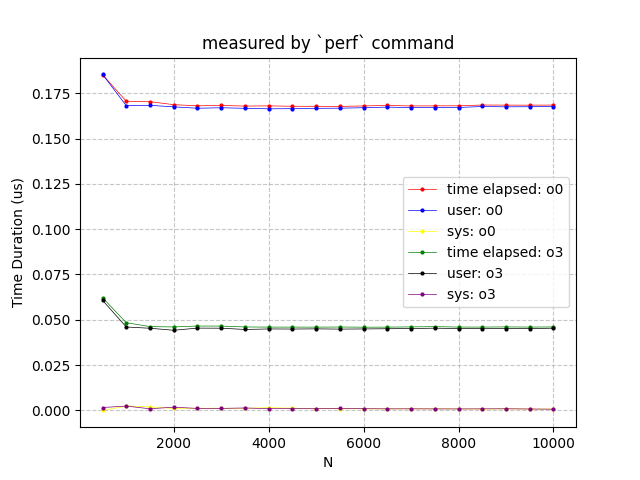
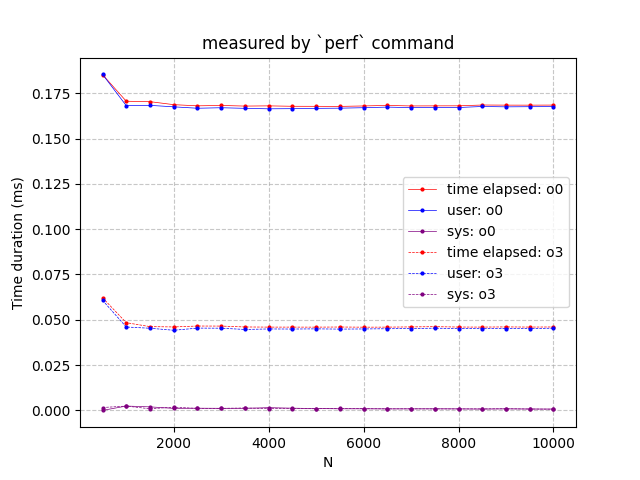
HW0 done

diff --git a/hw0_code/task_4/perf/percentage_metrics.py b/hw0_code/task_4/perf/percentage_metrics.py
@@ -1,0 +1,118 @@
+import os
+import re
+import numpy as np
+import matplotlib.pyplot as plt
+
+root_dir = 'hw0_code/task_4/perf'
+sub_dirs_O0 = ['test_1/O0', 'test_2/O0', 'test_3/O0', 'test_4/O0', 'test_5/O0']
+sub_dirs_O3 = ['test_1/O3', 'test_2/O3', 'test_3/O3', 'test_4/O3', 'test_5/O3']
+
+arg_try_times = 20
+
+metrics = ['icache_hit_percentages_o0', 'cache_ref_percentages_o0', 'dcache_hit_percentages_o0', 'branch_miss_percentages_o0', 'instructions_counts_o0', 'page_faults_counts_o0', 
+           'cpu_migrations_counts_o0', 'icache_hit_percentages_o3', 'cache_ref_percentages_o3', 'dcache_hit_percentages_o3', 'branch_miss_percentages_o3', 'instructions_counts_o3', 'page_faults_counts_o3', 
+           'cpu_migrations_counts_o3']
+
+for metric in metrics:
+    globals()[metric] = [[] for _ in range(arg_try_times)]
+
+time_pattern = re.compile(r'(\d+)m(\d+\.\d+)s')
+
+def convert_to_seconds(time_str):
+    match = time_pattern.match(time_str)
+    if match:
+        minutes = int(match.group(1))
+        seconds = float(match.group(2))
+        return minutes * 60 + seconds
+    return None
+
+for i in range(arg_try_times):
+    n = (i+1) * 500
+    for sub_dir in sub_dirs_O0:
+        with open(os.path.join(root_dir,sub_dir,f"{n}.txt"), 'r') as file:
+            content = file.read()
+            flops = 2 * n**2
+
+            icache_hit_percentages_o0[i].append(float(re.search(r'L1-icache-load-misses\s+#\s+([\d\.]+)% of all L1-icache hits', content).group(1)) if re.search(r'L1-icache-load-misses\s+#\s+([\d\.]+)% of all L1-icache hits', content) else None)
+            cache_ref_percentages_o0[i].append(float(re.search(r'cache-misses\s+#\s+([\d\.]+)\s*% of all cache refs', content).group(1)) if re.search(r'cache-misses\s+#\s+([\d\.]+)\s*% of all cache refs', content) else None)
+            dcache_hit_percentages_o0[i].append(float(re.search(r'L1-dcache-load-misses\s+#\s+([\d\.]+)% of all L1-dcache hits', content).group(1)) if re.search(r'L1-dcache-load-misses\s+#\s+([\d\.]+)% of all L1-dcache hits', content) else None)
+            branch_miss_percentages_o0[i].append(float(re.search(r'branch-misses\s+#\s+([\d\.]+)% of all branches', content).group(1)) if re.search(r'branch-misses\s+#\s+([\d\.]+)% of all branches', content) else None)
+            instructions_counts_o0[i].append(int(re.search(r'([\d,]+)\s+instructions', content).group(1).replace(',', '')) if re.search(r'([\d,]+)\s+instructions', content) else None)
+            page_faults_counts_o0[i].append(int(re.search(r'([\d,]+)\s+page-faults', content).group(1).replace(',', '')) if re.search(r'([\d,]+)\s+page-faults', content) else None)
+            cpu_migrations_counts_o0[i].append(int(re.search(r'([\d,]+)\s+cpu-migrations', content).group(1).replace(',', '')) if re.search(r'([\d,]+)\s+cpu-migrations', content) else None)
+            
+    for sub_dir in sub_dirs_O3:
+        with open(os.path.join(root_dir,sub_dir,f"{n}.txt"), 'r') as file:
+            content = file.read()
+            flops = 2 * n**2
+            
+            icache_hit_percentages_o3[i].append(float(re.search(r'L1-icache-load-misses\s+#\s+([\d\.]+)% of all L1-icache hits', content).group(1)) if re.search(r'L1-icache-load-misses\s+#\s+([\d\.]+)% of all L1-icache hits', content) else None)
+            cache_ref_percentages_o3[i].append(float(re.search(r'cache-misses\s+#\s+([\d\.]+)\s*% of all cache refs', content).group(1)) if re.search(r'cache-misses\s+#\s+([\d\.]+)\s*% of all cache refs', content) else None)
+            dcache_hit_percentages_o3[i].append(float(re.search(r'L1-dcache-load-misses\s+#\s+([\d\.]+)% of all L1-dcache hits', content).group(1)) if re.search(r'L1-dcache-load-misses\s+#\s+([\d\.]+)% of all L1-dcache hits', content) else None)
+            branch_miss_percentages_o3[i].append(float(re.search(r'branch-misses\s+#\s+([\d\.]+)% of all branches', content).group(1)) if re.search(r'branch-misses\s+#\s+([\d\.]+)% of all branches', content) else None)
+            instructions_counts_o3[i].append(int(re.search(r'([\d,]+)\s+instructions', content).group(1).replace(',', '')) if re.search(r'([\d,]+)\s+instructions', content) else None)
+            page_faults_counts_o3[i].append(int(re.search(r'([\d,]+)\s+page-faults', content).group(1).replace(',', '')) if re.search(r'([\d,]+)\s+page-faults', content) else None)
+            cpu_migrations_counts_o3[i].append(int(re.search(r'([\d,]+)\s+cpu-migrations', content).group(1).replace(',', '')) if re.search(r'([\d,]+)\s+cpu-migrations', content) else None)
+            
+
+
+
+
+
+icache_hit_percentages_o0 = np.mean(icache_hit_percentages_o0, axis=1)
+cache_ref_percentages_o0 = np.mean(cache_ref_percentages_o0, axis=1)
+dcache_hit_percentages_o0 = np.mean(dcache_hit_percentages_o0, axis=1)
+branch_miss_percentages_o0 = np.mean(branch_miss_percentages_o0, axis=1)
+
+# instructions_counts_o0 = np.mean(instructions_counts_o0, axis=1)
+# page_faults_counts_o0 = np.mean(page_faults_counts_o0, axis=1)
+# cpu_migrations_counts_o0 = np.mean(cpu_migrations_counts_o0, axis=1)
+
+
+icache_hit_percentages_o3 = np.mean(icache_hit_percentages_o3, axis=1)
+cache_ref_percentages_o3 = np.mean(cache_ref_percentages_o3, axis=1)
+dcache_hit_percentages_o3 = np.mean(dcache_hit_percentages_o3, axis=1)
+branch_miss_percentages_o3 = np.mean(branch_miss_percentages_o3, axis=1)
+
+# instructions_counts_o3 = np.mean(instructions_counts_o3, axis=1)
+# page_faults_counts_o3 = np.mean(page_faults_counts_o3, axis=1)
+# cpu_migrations_counts_o3 = np.mean(cpu_migrations_counts_o3, axis=1)
+
+
+n_values = np.arange(500, 10001, 500)
+
+plt.figure(figsize=(7, 7)) 
+# 绘制L1指令缓存未命中率
+plt.plot(n_values, icache_hit_percentages_o0, marker='o', linestyle='-', color='green', label='L1-icache miss rate (%): O0', markersize=4, linewidth=1)
+# 绘制缓存引用未命中率
+plt.plot(n_values, cache_ref_percentages_o0, marker='o', linestyle='-', color='purple', label='Cache miss rate (%): O0', markersize=4, linewidth=1)
+# 绘制L1数据缓存未命中率
+plt.plot(n_values, dcache_hit_percentages_o0, marker='o', linestyle='-', color='orange', label='L1-dcache miss rate (%): O0', markersize=4, linewidth=1)
+# 绘制分支未命中百分比
+plt.plot(n_values, branch_miss_percentages_o0, marker='o', linestyle='-', color='magenta', label='Branch miss rate (%): O0', markersize=4, linewidth=1)
+
+#plot o3 related metrics
+# 绘制L1指令缓存未命中率
+plt.plot(n_values, icache_hit_percentages_o3, marker='o', linestyle='--', color='green', label='L1-icache miss rate (%): O3', markersize=4, linewidth=1)
+# 绘制缓存引用未命中率
+plt.plot(n_values, cache_ref_percentages_o3, marker='o', linestyle='--', color='purple', label='Cache miss rate (%): O3', markersize=4, linewidth=1)
+# 绘制L1数据缓存未命中率
+plt.plot(n_values, dcache_hit_percentages_o3, marker='o', linestyle='--', color='orange', label='L1-dcache miss rate (%): O3', markersize=4, linewidth=1)
+# 绘制分支未命中百分比
+plt.plot(n_values, branch_miss_percentages_o3, marker='o', linestyle='--', color='magenta', label='Branch miss rate (%): O3', markersize=4, linewidth=1)
+
+
+# 设置坐标轴标签和标题
+plt.xlabel('N')
+plt.ylabel('percentage(%)')
+plt.title('')
+
+# 添加网格线
+plt.grid(True, linestyle='--', alpha=0.7)
+
+# 显示图例
+plt.legend()
+
+# 显示图形
+plt.savefig(os.path.join(root_dir,f"percentage_metrics.png"))
+# name = r"$\bar{x}$"

diff --git a/hw0_code/task_4/perf/analysis.py b/hw0_code/task_4/perf/analysis.py
@@ -9,13 +9,10 @@ sub_dirs_O3 = ['test_1/O3', 'test_2/O3', 'test_3/O3', 'test_4/O3', 'test_5/O3']
 
 arg_try_times = 20
 
-elapsed_matchs_o0 = [ [] for _ in range(arg_try_times)]
-user_matchs_o0 = [ [] for _ in range(arg_try_times)]
-sys_matchs_o0 = [ [] for _ in range(arg_try_times)]
+metrics = ['elapsed_matchs_o0', 'user_matchs_o0', 'sys_matchs_o0', 'elapsed_matchs_o3', 'user_matchs_o3', 'sys_matchs_o3']
 
-elapsed_matchs_o3 = [ [] for _ in range(arg_try_times)]
-user_matchs_o3 = [ [] for _ in range(arg_try_times)]
-sys_matchs_o3 = [ [] for _ in range(arg_try_times)]
+for metric in metrics:
+    globals()[metric] = [[] for _ in range(arg_try_times)]
 
 time_pattern = re.compile(r'(\d+)m(\d+\.\d+)s')
 
@@ -33,46 +30,47 @@ for i in range(arg_try_times):
         with open(os.path.join(root_dir,sub_dir,f"{n}.txt"), 'r') as file:
             content = file.read()
             flops = 2 * n**2
-            elapsed_match = re.search(r"(\d+\.\d+) seconds time elapsed", content)
-            elapsed_matchs_o0[i].append(float(elapsed_match.group(1))/flops)
-            user_match = re.search(r"(\d+\.\d+) seconds user", content)
-            user_matchs_o0[i].append(float(user_match.group(1))/flops)
-            sys_match = re.search(r"(\d+\.\d+) seconds sys", content)
-            sys_matchs_o0[i].append(float(sys_match.group(1))/flops)
-
+            elapsed_matchs_o0[i].append(float(re.search(r"(\d+\.\d+) seconds time elapsed", content).group(1))/flops)
+            user_matchs_o0[i].append(float(re.search(r"(\d+\.\d+) seconds user", content).group(1))/flops)
+            sys_matchs_o0[i].append(float(re.search(r"(\d+\.\d+) seconds sys", content).group(1))/flops)
     for sub_dir in sub_dirs_O3:
         with open(os.path.join(root_dir,sub_dir,f"{n}.txt"), 'r') as file:
             content = file.read()
             flops = 2 * n**2
-            elapsed_match = re.search(r"(\d+\.\d+) seconds time elapsed", content)
-            elapsed_matchs_o3[i].append(float(elapsed_match.group(1))/flops)
-            user_match = re.search(r"(\d+\.\d+) seconds user", content)
-            user_matchs_o3[i].append(float(user_match.group(1))/flops)
-            sys_match = re.search(r"(\d+\.\d+) seconds sys", content)
-            sys_matchs_o3[i].append(float(sys_match.group(1))/flops)
+            elapsed_matchs_o3[i].append(float(re.search(r"(\d+\.\d+) seconds time elapsed", content).group(1))/flops)
+            user_matchs_o3[i].append(float(re.search(r"(\d+\.\d+) seconds user", content).group(1))/flops)
+            sys_matchs_o3[i].append(float(re.search(r"(\d+\.\d+) seconds sys", content).group(1))/flops)
+
 
 elapsed_matchs_o0 = np.mean(elapsed_matchs_o0, axis=1)*1000000
 user_matchs_o0 = np.mean(user_matchs_o0, axis=1)*1000000
 sys_matchs_o0 = np.mean(sys_matchs_o0, axis=1)*1000000
-
 elapsed_matchs_o3 = np.mean(elapsed_matchs_o3, axis=1)*1000000
 user_matchs_o3 = np.mean(user_matchs_o3, axis=1)*1000000
 sys_matchs_o3 = np.mean(sys_matchs_o3, axis=1)*1000000
 
 
+
 n_values = np.arange(500, 10001, 500)
+
+
+
+
+
+
 
 # 使用 errorbar 绘制带有误差线的折线图
 plt.plot(n_values, elapsed_matchs_o0, marker='o', linestyle='-', color='red', label='time elapsed: o0', markersize=2, linewidth=0.5)
 plt.plot(n_values, user_matchs_o0, marker='o', linestyle='-', color='blue', label='user: o0', markersize=2, linewidth=0.5)
-plt.plot(n_values, sys_matchs_o0, marker='o', linestyle='-', color='yellow', label='sys: o0', markersize=2, linewidth=0.5)
-plt.plot(n_values, elapsed_matchs_o3, marker='o', linestyle='-', color='green', label='time elapsed: o3', markersize=2, linewidth=0.5)
-plt.plot(n_values, user_matchs_o3, marker='o', linestyle='-', color='black', label='user: o3', markersize=2, linewidth=0.5)
-plt.plot(n_values, sys_matchs_o3, marker='o', linestyle='-', color='purple', label='sys: o3', markersize=2, linewidth=0.5)
+plt.plot(n_values, sys_matchs_o0, marker='o', linestyle='-', color='purple', label='sys: o0', markersize=2, linewidth=0.5)
+
+plt.plot(n_values, elapsed_matchs_o3, marker='o', linestyle='--', color='red', label='time elapsed: o3', markersize=2, linewidth=0.5)
+plt.plot(n_values, user_matchs_o3, marker='o', linestyle='--', color='blue', label='user: o3', markersize=2, linewidth=0.5)
+plt.plot(n_values, sys_matchs_o3, marker='o', linestyle='--', color='purple', label='sys: o3', markersize=2, linewidth=0.5)
 
 # 设置坐标轴标签和标题
 plt.xlabel('N')
-plt.ylabel('Time Duration (us)')
+plt.ylabel('Time duration (ms)')
 plt.title('measured by `perf` command')
 
 # 添加网格线
@@ -82,5 +80,5 @@ plt.grid(True, linestyle='--', alpha=0.7)
 plt.legend()
 
 # 显示图形
-plt.savefig(os.path.join(root_dir,f"result_per_flop.png"))
+plt.savefig(os.path.join(root_dir,f"result.png"))
 # name = r"$\bar{x}$"

diff --git a/hw0_code/task_4/perf/other_metrics.py b/hw0_code/task_4/perf/other_metrics.py
@@ -1,0 +1,95 @@
+import os
+import re
+import numpy as np
+import matplotlib.pyplot as plt
+
+root_dir = 'hw0_code/task_4/perf'
+sub_dirs_O0 = ['test_1/O0', 'test_2/O0', 'test_3/O0', 'test_4/O0', 'test_5/O0']
+sub_dirs_O3 = ['test_1/O3', 'test_2/O3', 'test_3/O3', 'test_4/O3', 'test_5/O3']
+
+arg_try_times = 20
+
+metrics = ['icache_hit_percentages_o0', 'cache_ref_percentages_o0', 'dcache_hit_percentages_o0', 'branch_miss_percentages_o0', 'instructions_counts_o0', 'page_faults_counts_o0', 
+           'cpu_migrations_counts_o0', 'icache_hit_percentages_o3', 'cache_ref_percentages_o3', 'dcache_hit_percentages_o3', 'branch_miss_percentages_o3', 'instructions_counts_o3', 'page_faults_counts_o3', 
+           'cpu_migrations_counts_o3']
+
+for metric in metrics:
+    globals()[metric] = [[] for _ in range(arg_try_times)]
+
+time_pattern = re.compile(r'(\d+)m(\d+\.\d+)s')
+
+def convert_to_seconds(time_str):
+    match = time_pattern.match(time_str)
+    if match:
+        minutes = int(match.group(1))
+        seconds = float(match.group(2))
+        return minutes * 60 + seconds
+    return None
+
+for i in range(arg_try_times):
+    n = (i+1) * 500
+    flops = 2 * n**2
+    kflops = flops/1000
+    for sub_dir in sub_dirs_O0:
+        with open(os.path.join(root_dir,sub_dir,f"{n}.txt"), 'r') as file:
+            content = file.read()
+
+            instructions_counts_o0[i].append(int(re.search(r'([\d,]+)\s+instructions', content).group(1).replace(',', ''))/flops if re.search(r'([\d,]+)\s+instructions', content) else None)
+            page_faults_counts_o0[i].append(int(re.search(r'([\d,]+)\s+page-faults', content).group(1).replace(',', ''))/kflops if re.search(r'([\d,]+)\s+page-faults', content) else None)
+            cpu_migrations_counts_o0[i].append(int(re.search(r'([\d,]+)\s+cpu-migrations', content).group(1).replace(',', '')) if re.search(r'([\d,]+)\s+cpu-migrations', content) else None)
+            
+    for sub_dir in sub_dirs_O3:
+        with open(os.path.join(root_dir,sub_dir,f"{n}.txt"), 'r') as file:
+            content = file.read()
+            
+            instructions_counts_o3[i].append(int(re.search(r'([\d,]+)\s+instructions', content).group(1).replace(',', ''))/flops if re.search(r'([\d,]+)\s+instructions', content) else None)
+            page_faults_counts_o3[i].append(int(re.search(r'([\d,]+)\s+page-faults', content).group(1).replace(',', ''))/kflops if re.search(r'([\d,]+)\s+page-faults', content) else None)
+            cpu_migrations_counts_o3[i].append(int(re.search(r'([\d,]+)\s+cpu-migrations', content).group(1).replace(',', '')) if re.search(r'([\d,]+)\s+cpu-migrations', content) else None)
+            
+
+
+
+
+
+instructions_counts_o0 = np.mean(instructions_counts_o0, axis=1)
+page_faults_counts_o0 = np.mean(page_faults_counts_o0, axis=1)
+cpu_migrations_counts_o0 = np.mean(cpu_migrations_counts_o0, axis=1)
+
+
+
+instructions_counts_o3 = np.mean(instructions_counts_o3, axis=1)
+page_faults_counts_o3 = np.mean(page_faults_counts_o3, axis=1)
+cpu_migrations_counts_o3 = np.mean(cpu_migrations_counts_o3, axis=1)
+
+
+n_values = np.arange(500, 10001, 500)
+
+# 绘制L1指令缓存未命中率
+plt.plot(n_values, instructions_counts_o0, marker='o', linestyle='-', color='green', label='Instructions Counts: O0', markersize=4, linewidth=1)
+
+for i, txt in enumerate(instructions_counts_o0):
+    plt.text(n_values[i], instructions_counts_o0[i] + 0.05 * max(instructions_counts_o0), f'{txt:.2f}', fontsize=8, ha='center', rotation=90)
+
+#plot o3 related metrics
+# 绘制L1指令缓存未命中率
+plt.plot(n_values, instructions_counts_o3, marker='o', linestyle='--', color='green', label='Instructions Counts: O3', markersize=4, linewidth=1)
+
+for i, txt in enumerate(instructions_counts_o3):
+    plt.text(n_values[i], instructions_counts_o3[i] + 0.05 * max(instructions_counts_o3), f'{txt:.2f}', fontsize=8, ha='center', rotation=90)
+
+
+
+# 设置坐标轴标签和标题
+plt.xlabel('N')
+plt.ylabel('Counts / flops')
+plt.title('')
+
+# 添加网格线
+plt.grid(True, linestyle='--', alpha=0.7)
+
+# 显示图例
+plt.legend()
+
+# 显示图形
+plt.savefig(os.path.join(root_dir,f"instructions_counts.png"))
+# name = r"$\bar{x}$"

diff --git a/hw0_report.md b/hw0_report.md
@@ -126,6 +126,33 @@ As the input size increases, the computation time also increases (as expected). 
 I designed a new metric, which is the execution time per flop. Here, I roughly estimate the total FLOPs as \( 2N^2 \). It can be observed that for N=1000 compared to N=500, the time per flop decreases significantly. Between N=1000 and N=2000, there is a slow decline, and after N=2000, it remains almost unchanged. I believe that the reason for the time reduction when N < 2000 is that the overhead related to initialization (such as reading from the hard drive and loading the program into cache) is relatively fixed, and as N increases, this initialization overhead is amortized.  
 The fact that the graph remains mostly unchanged indicates that the matrix-vector program demonstrates good performance scalability for N < 10000.
 
-## Task4: Analysis with `perf`
+## Task4: Analysis with `perf`  
 
-![](hw0_code/task_4/perf/result.png)  
+
+
+1. **Which version of the code is performing better?**  
+The binary file generated with the `O3` optimization level is performing better.
+- ![](hw0_code/task_4/perf/result.png)  
+
+2. **Which areas of performance saw an improvement?**  
+
+The performance analysis of different compilation optimization levels (O0 and O3) using perf reveals several factors contributing to O3's faster execution:
+
+**Instruction Count is the main contribution**: `O3` reduces the total instructions executed, improving efficiency by eliminating redundant instructions.
+
+**L1 instruction cache miss rate contribute a little when N>1000**: `O3` lowers the L1 instruction cache miss rate slightly.
+
+**L1 Data Cache Miss Rate increases under O3 optimization, L1 Cache is a bottleneck for the `O3` optimized code**: `O3` optimizations(Loop unrolling and function inlining) reduce branch instructions, meantime lead to **poor locality and higher cache pressure**, especially if loop bodies grow too large and exceed the L1 cache's capacity. What's more, `O3` optimized code runs faster and more compactly, this can **increase memory bandwidth demands**. If L1 cache bandwidth can't keep up, the L1-dcache miss rate may rise.
+
+****
+- Insight Figure 1: cache miss rate at each level  
+![](hw0_code/task_4/perf/percentage_metrics.png)  
+
+- Insight Figure 2: instructions count per flop  
+![](hw0_code/task_4/perf/instructions_counts.png)  
+
+- Insight Figure 3: page fault count per kflops  
+![](hw0_code/task_4/perf/page_fault_counts.png)  
+
+- Insight Figure 4: cpu migrations count per execution  
+![](hw0_code/task_4/perf/cpu_migrations_counts.png)
